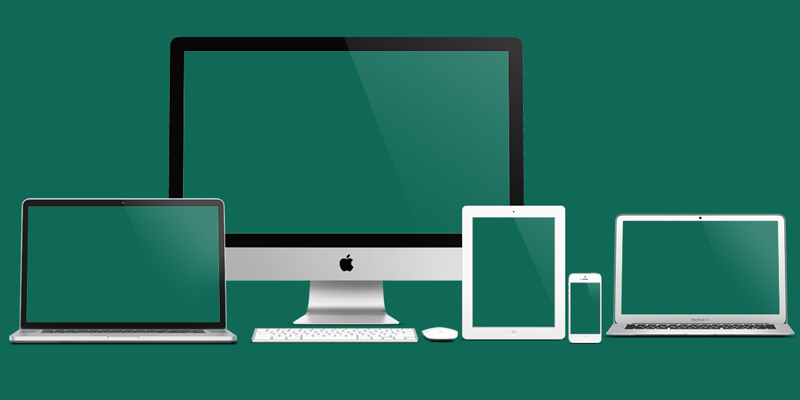
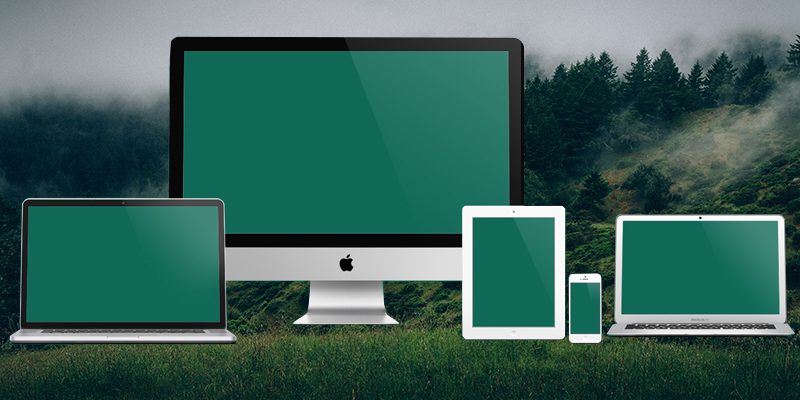
web dev cohesion

diff --git a/developer/developer.css b/developer/developer.css
@@ -1,8 +1,8 @@
 body {
-  width: 1230px;
+  width: 1236px;
   margin: 0;
   font-family: 'Josefin Sans', sans-serif;
-  background-color: rgb(23, 105, 87);
+  background-color: black;
 }
 
 .nav:hover {
@@ -11,7 +11,7 @@ body {
 
 .header-container {
   height: 544px;
-  width: 1230px;
+  width: 1236px;
   background-image: url("./../public/mac.jpg");
   background-size: cover;
   background-position: center;
@@ -42,7 +42,7 @@ body {
 
 .container {
   height: 544px;
-  width: 1230px;
+  width: 1236px;
   display: flex;
   flex-direction: column;
   justify-content: center;
@@ -104,7 +104,7 @@ p {
   align-items: center;
   justify-content: center;
   height: 650px;
-  width: 1251px;
+  width: 1236px;
   padding-bottom: 65px;
   /*background-color: #949e98;*/
   background-color: #f9f6de;
@@ -139,7 +139,7 @@ p {
   justify-content: center;
   align-items: center;
   height: 600px;
-  width: 1230px;
+  width: 1236px;
 }
 
 #line {
@@ -359,7 +359,7 @@ p {
   align-items: center;
   margin: 0 auto;
   height: 400px;
-  width: 1251px;
+  width: 1236px;
   z-index: 1;
 }
 
@@ -411,7 +411,7 @@ p {
 
 .resume {
   height: 280px;
-  width: 1251px;
+  width: 1236px;
   background-color: #949e98;
   display: flex;
   justify-content: center;
@@ -450,7 +450,7 @@ p {
 
 .contact {
   height: 480px;
-  width: 1251px;
+  width: 1236px;
   background-color: rgb(67, 66, 66);
   display: flex;
   flex-direction: row;
@@ -575,7 +575,7 @@ textarea {
 #ipad-screen {
   position: absolute;
   top: 344px;
-  left: 726px;
+  left: 728px;
   background-color: rgba(5, 159, 223, .9);
   height: 175px;
   width: 130px;
@@ -590,10 +590,10 @@ textarea {
 
 #iphone-screen {
   position: absolute;
-  top: 447.2px;
-  left: 876px;
+  top: 448.4px;
+  left: 881px;
   background-color: lightgrey;
-  height: 80px;
+  height: 80.4px;
   width: 46.5px;
   border-radius: .2em;
 }
@@ -606,12 +606,12 @@ textarea {
 
 #air-screen {
   position: absolute;
-  top: 352px;
-  left: 955px;
+  top: 353px;
+  left: 959.5px;
   background-color: salmon;
   opacity: .9;
   height: 145px;
-  width: 244px;
+  width: 246px;
   border-radius: .2em;
 }
 
@@ -643,7 +643,7 @@ textarea {
   position: absolute;
   background-image: url("./../public/glare.png");
   top: 0;
-  left: 751px;
+  left: 736px;
   z-index: 1;
 }
 
@@ -712,7 +712,7 @@ textarea {
   width: 200px;
 }
 
-#about-screen {
+/*#about-screen {
   position: absolute;
   top: 88.7px;
   left: 276px;
@@ -723,4 +723,4 @@ textarea {
   width: 513px;
   z-index: 1;
   filter: grayscale(50%);
-}
+}*/

diff --git a/developer/developer.html b/developer/developer.html
@@ -42,7 +42,7 @@
             <p>POSTGRESQL</p>
             <p>REACT ROUTER</p>
             <p>CSS/FLEXBOX</p>
-            <p>USER AUTH</p>
+            <p>JSON WEB TOKEN</p>
           </div>
         <div class="project-three">
           <div class="description-box">
